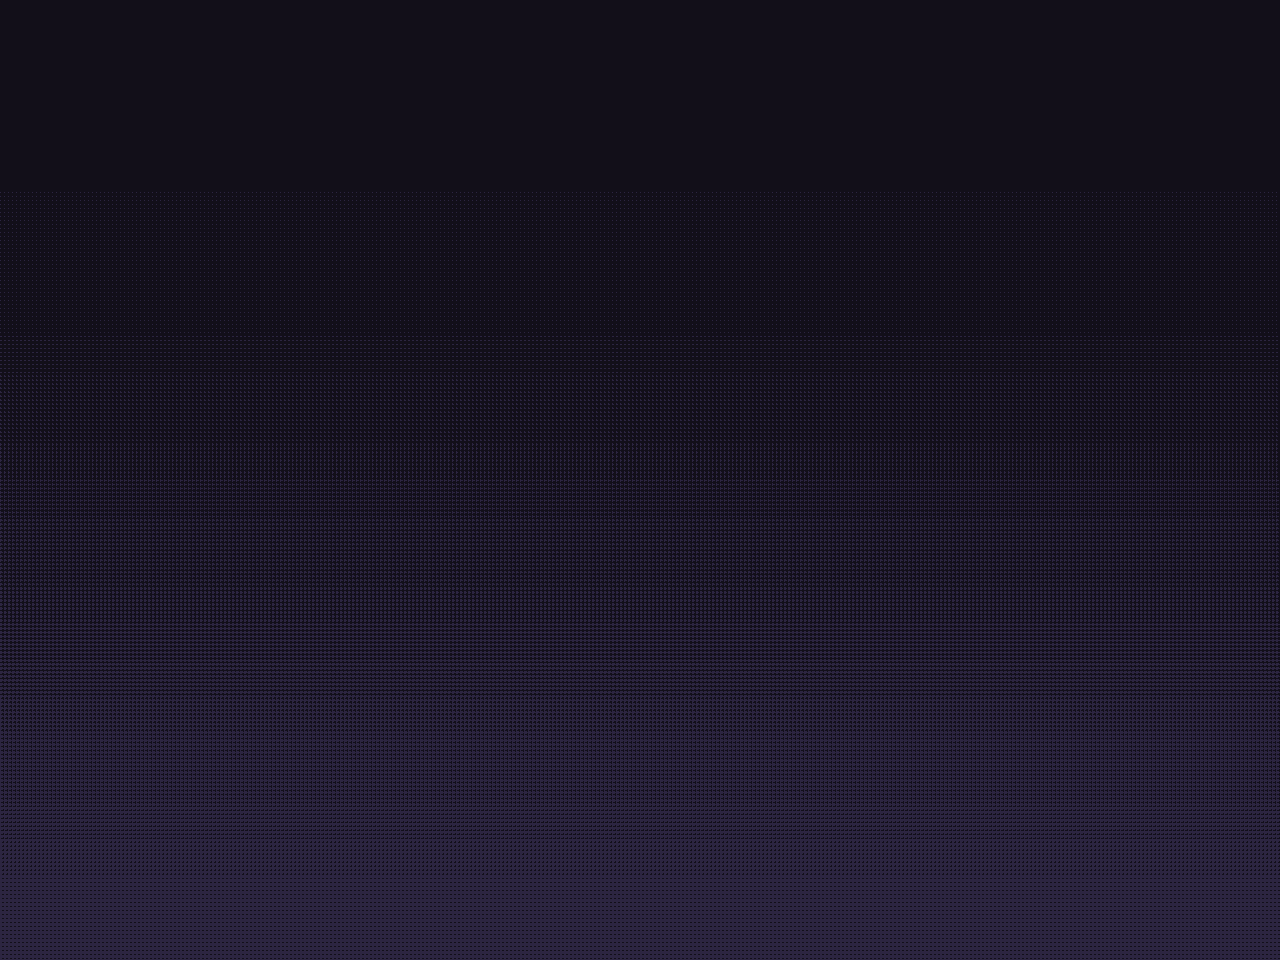
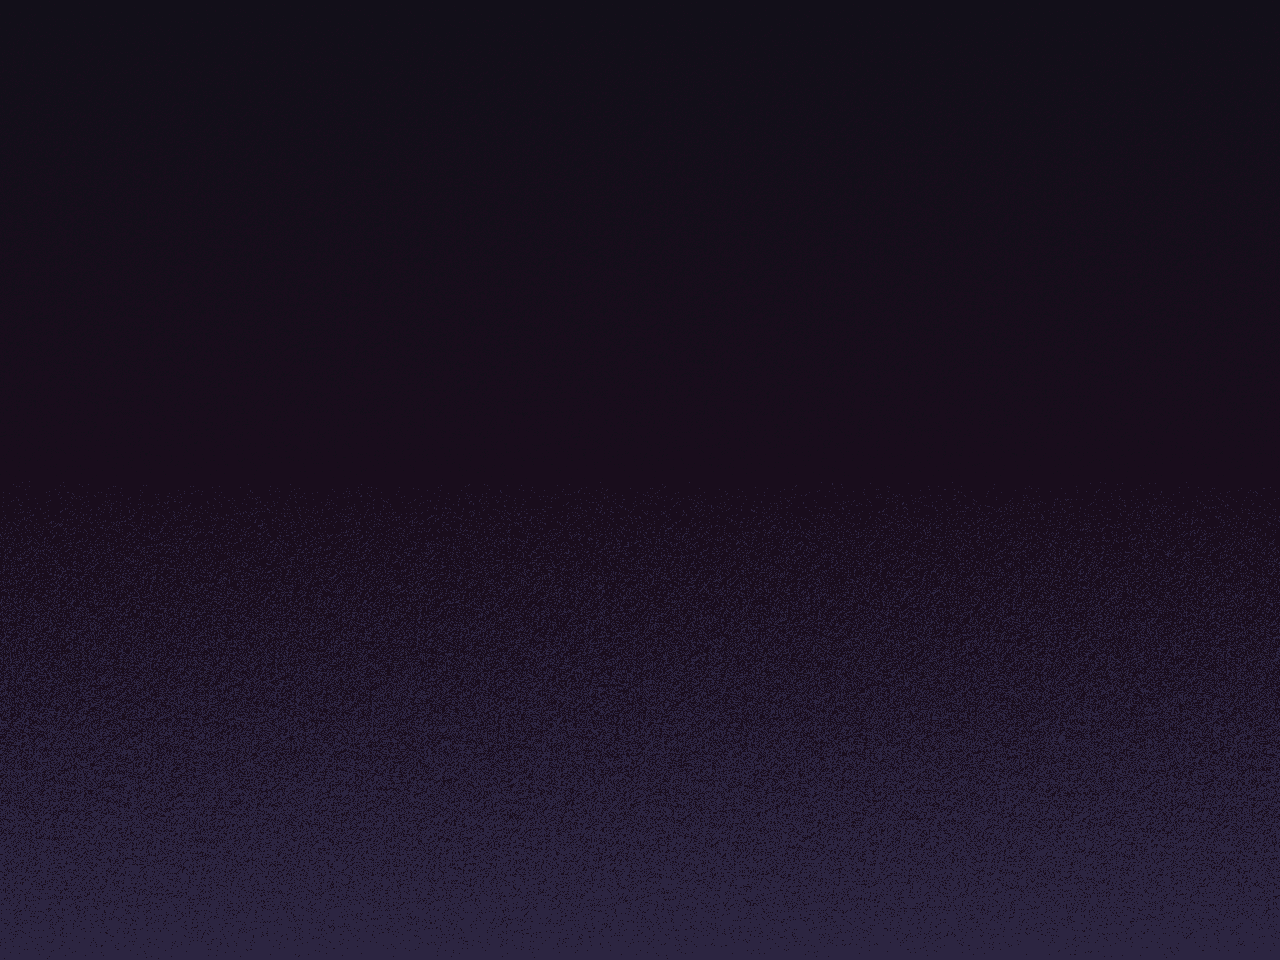
Pass 502: soften the sky backdrop dither so it stops reading as moire
The far-layer sky gradient blended between only two colours with a fixed 4px
ordered dither, so the large lower region became a 50/50 screen of two far-apart
colours on a rigid grid — the dot/crosshatch screen-door the independent grade
kept flagging as midground moire (pass 497/500/501).

tilegen.gradient() is now a palette ramp, not a two-colour screen:
- gradient_ramp(top, bottom) steps through several master-palette colours
  between the endpoints (each the nearest match to an even RGB interpolation);
- gradient_pixel() dithers only the thin seam between two adjacent ramp colours,
  from value noise (hash2), not a fixed ordered grid.

Each dither now mixes near-identical neighbours chosen by noise, so transitions
read as soft grain with no repeating period. Code-first: no art repainted, the
11 committed *_far.png regenerated deterministically. Verified by eye at 1x on
the raw layers and in-game (spires/roost, evercrown/drift_well); the pass-501
atmosphere shader still recedes these layers on top.

Design bible 12.6 documents the ramp. tools/art/test_tilegen.py (7 checks,
mutation-checked) guards the helpers, including the no-fixed-x-period invariant
that is the moire signature; it is a local art-tool guard (CI runs no Python
unit tests). Full local suite 8398 checks, 0 failed.

Changed region(s): [[0.0, 0.3438, 1.0, 1.0]]

diff --git a/tools/art/test_tilegen.py b/tools/art/test_tilegen.py
@@ -1,0 +1,89 @@
+#!/usr/bin/env python3
+"""Guards for the backdrop gradient (design bible 12.6).
+
+These cover the pure gradient helpers in tilegen that shape every far layer's
+sky, so the moire dot-grid the independent grade flagged (pass 497/500/501) stays
+fixed. The game test suite is Godot-only and CI does not run Python unit tests;
+run this guard with `python tools/art/test_tilegen.py` after touching the
+gradient. Exit code is non-zero on the first failure, so it mutation-checks by a
+plain re-run.
+"""
+import sys
+from pathlib import Path
+
+sys.path.insert(0, str(Path(__file__).resolve().parent))
+import tilegen as tg  # noqa: E402
+
+
+def _nearest(name):
+    """The palette name nearest in RGB to `name` (identity for a palette name)."""
+    target = tg.c(name)[:3]
+    return min(tg.PAL, key=lambda n: sum((tg.PAL[n][i] - target[i]) ** 2 for i in range(3)))
+
+
+def test_ramp_is_palette_locked():
+    ramp = tg.gradient_ramp("night-0", "crystal-1")
+    assert ramp, "ramp is non-empty"
+    for name in ramp:
+        assert name in tg.PAL, f"{name} is a master-palette colour"
+
+
+def test_ramp_has_several_steps_between_far_apart_ends():
+    # The whole point: far-apart endpoints get intermediate palette steps, not a
+    # two-colour field. (Mutating gradient_ramp back to [top, bottom] fails here.)
+    for top, bottom in [("night-0", "sky-2"), ("night-1", "crystal-2"), ("sky-5", "sky-7")]:
+        ramp = tg.gradient_ramp(top, bottom)
+        assert len(ramp) >= 3, f"{top}->{bottom} ramps through >=3 palette steps, got {ramp}"
+
+
+def test_ramp_ends_sit_on_the_endpoints():
+    ramp = tg.gradient_ramp("night-0", "sky-2")
+    assert ramp[0] == _nearest("night-0"), f"ramp starts at the top colour, got {ramp[0]}"
+    assert ramp[-1] == _nearest("sky-2"), f"ramp ends at the bottom colour, got {ramp[-1]}"
+
+
+def test_ramp_has_no_repeated_neighbours():
+    ramp = tg.gradient_ramp("night-0", "stone-1")
+    assert all(a != b for a, b in zip(ramp, ramp[1:])), f"adjacent ramp steps differ, got {ramp}"
+
+
+def test_a_solid_band_is_fully_solid():
+    # At the very top the gradient is one flat colour (no stray dither pixels).
+    ramp = ["night-0", "stone-0", "sky-2"]
+    row = {tg.gradient_pixel(ramp, x, 0, 300) for x in range(400)}
+    assert row == {ramp[0]}, f"the top row is solid, got {row}"
+
+
+def test_a_seam_dithers_between_adjacent_steps_only():
+    ramp = ["night-0", "stone-0", "sky-2"]
+    # p = y/(h-1)*(n-1); pick y so the seam between ramp[0] and ramp[1] is active.
+    h = 300
+    y = round((0.5 / (len(ramp) - 1)) * (h - 1))  # frac ~ 0.5 in the first seam
+    row = [tg.gradient_pixel(ramp, x, y, h) for x in range(600)]
+    assert set(row) == {ramp[0], ramp[1]}, f"a seam mixes only its two neighbours, got {set(row)}"
+
+
+def test_the_dither_is_noise_not_a_rigid_grid():
+    # The moire signature is a fixed small period in x (the old ordered dither
+    # repeated every 4 px). Value-noise dither has no such period. Mutating
+    # gradient_pixel back to an ordered grid pushes a shift's match rate to ~1.0.
+    ramp = ["night-0", "stone-0", "sky-2"]
+    h = 300
+    y = round((0.5 / (len(ramp) - 1)) * (h - 1))
+    row = [tg.gradient_pixel(ramp, x, y, h) for x in range(2000)]
+    for shift in (1, 2, 4, 8):
+        matches = sum(1 for x in range(len(row) - shift) if row[x] == row[x + shift])
+        rate = matches / (len(row) - shift)
+        assert rate < 0.9, f"shift {shift}: {rate:.2f} of pixels repeat — reads as a grid, not grain"
+
+
+def main():
+    tests = [v for k, v in sorted(globals().items()) if k.startswith("test_") and callable(v)]
+    for t in tests:
+        t()
+        print(f"ok  {t.__name__}")
+    print(f"\n{len(tests)} checks passed")
+
+
+if __name__ == "__main__":
+    main()

diff --git a/tools/art/tilegen.py b/tools/art/tilegen.py
@@ -621,13 +621,42 @@ def wrap_noise(x, y, seed, period):
     return a + (b - a) * fy
 
 
+def gradient_ramp(top, bottom, stops=8):
+    """A ramp of master-palette colours from `top` to `bottom`, each the nearest
+    palette match to an even RGB step between them. Several solid value steps mean
+    the gradient dithers only between adjacent, near-identical colours, so the mix
+    reads as a soft grain instead of a 50/50 screen of the two far-apart endpoints
+    — the moire dot-grid the independent grade flagged (pass 500/501, bible 12.6)."""
+    tr, br = c(top)[:3], c(bottom)[:3]
+    ramp = []
+    for s in range(stops):
+        t = s / (stops - 1)
+        target = tuple(tr[i] + (br[i] - tr[i]) * t for i in range(3))
+        name = min(PAL, key=lambda n: sum((PAL[n][i] - target[i]) ** 2 for i in range(3)))
+        if not ramp or ramp[-1] != name:
+            ramp.append(name)
+    return ramp
+
+
+def gradient_pixel(ramp, x, y, h, dither=True):
+    """The palette colour name for one pixel of a `ramp` gradient `h` tall. The
+    seam between two ramp steps is dithered from value noise (hash2), not a fixed
+    ordered grid, so a transition reads as grain and never as a rigid screen door."""
+    n = len(ramp)
+    if n == 1:
+        return ramp[0]
+    p = (y / (h - 1)) * (n - 1)
+    lo = min(int(p), n - 2)
+    frac = p - lo
+    thr = hash2(x, y, 9) if dither else 0.5
+    return ramp[lo + 1] if frac > thr else ramp[lo]
+
+
 def gradient(img, top, bottom, dither=True):
+    ramp = gradient_ramp(top, bottom) if dither else [top, bottom]
     for y in range(BG_H):
-        k = y / (BG_H - 1)
         for x in range(BG_W):
-            # Ordered dither between the two colors instead of blending.
-            threshold = ((x % 4) * 4 + (y % 4) * 7 % 16) / 16.0 if dither else 0.5
-            img.putpixel((x, y), c(bottom if k > threshold * 0.6 + 0.2 else top))
+            img.putpixel((x, y), c(gradient_pixel(ramp, x, y, BG_H, dither)))
 
 
 def put(img, x, y, col):

diff --git a/docs/loop/pass-502.md b/docs/loop/pass-502.md
@@ -1,0 +1,98 @@
+# Pass 502: soften the halftone dither in the sky backdrops
+
+## Category
+
+Art / World, from the independent-grade queue — not the rubric rotation. Art outranks the rotation
+when the queue holds no fresh Sean note (none this pass; all three notes are answered), and the
+headline art item (the PixelLab guardian bases) is **blocked**: three bases already wait for Sean's OK
+(Haar Wyrm, Thane Vorrund, Drowned Warden), the limit of three, and no note frees a slot. The hero
+sprite (the grade's top defect) would be a fourth base, also over the limit. So this pass takes the
+next unblocked, code-first grade defect — the one pass-501's "Next" named for pass 502, the recurring
+**halftone dither moire**, flagged at the pass-497, pass-500 and pass-501 grades:
+
+> A uniform dot/crosshatch dither grid over the midground reads as flat moire noise on several rooms
+> (boughs, evercrown, spires, sky_spring, sunken, vorrhallow).
+
+No generations and no base-approval gate; it touches every zone with a painted backdrop.
+
+## What was built
+
+The sky of every far layer (`<zone>_far.png`) is a palette-locked vertical gradient from
+`tilegen.gradient(top, bottom)`. The old gradient blended between **two** colours — `top` and
+`bottom` — with a fixed 4-pixel ordered dither squeezed into the transition band. Over the large
+lower region that meant a 50/50 screen of two far-apart colours, on a rigid grid: a loud dot/
+crosshatch screen-door with a hard banding seam where it kicked in. That is the moire the grade saw.
+
+The gradient is now a **ramp**, not a two-colour screen:
+
+- **`gradient_ramp(top, bottom)`** builds a ramp of several master-palette colours between the two
+  endpoints — each step the nearest palette match to an even RGB interpolation — so the sky steps
+  through intermediate colours instead of mixing only the two ends.
+- **`gradient_pixel(ramp, x, y, h)`** dithers only across the thin seam between two **adjacent** ramp
+  colours, and the dither threshold is **value noise (`hash2`)**, not a fixed ordered grid.
+
+Because each dither now mixes two near-identical neighbours chosen by noise — not a rigid 50/50
+screen of the two far-apart endpoints — a transition reads as a soft grain, and there is no repeating
+period for the eye to lock onto as a grid. Most of the sky is solid palette bands; only the hairline
+seams between them carry any grain at all.
+
+This is **code-first**: no art is repainted, only `tools/art/tilegen.py` and the 11 committed
+`*_far.png` it regenerates. The output is deterministic (`hash2` is pure), so the PNGs do not churn on
+a re-run. The pass-501 atmosphere shader still desaturates and fades these layers on top, so the two
+fixes compound: the backdrop recedes (501) and no longer carries a screen-door (502).
+
+## Why not keep a dither at all
+
+A pixel sky is palette-locked (bible 12.2/12.3): a gradient cannot blend to arbitrary RGB, so some
+dither between the few available shades is unavoidable. The defect was never "dither exists" — it was
+the **rigid grid** and the **two-colour contrast**. Ramping through intermediate palette colours drops
+the per-seam contrast to near-nothing, and a noise threshold removes the period; together they turn a
+screen-door into grain. Switching to a larger ordered (Bayer) matrix would only trade a small grid for
+a bigger one, so noise is the right call for killing moire.
+
+## Checks
+
+- **Verified by eye** at 1x, old vs new, on the raw far layers (spires, boughs, evercrown, and the
+  before/after pair) and **in-game** (spires/roost, evercrown/drift_well, with the atmosphere shader
+  and the gameplay layer in frame): the dot-screen and the hard banding seam are gone; the backdrop
+  recedes as a clean gradient and the lit tiles, rain and actors pop.
+- **`tools/art/test_tilegen.py`** (7 checks) guards the helpers: the ramp is palette-locked, steps
+  through ≥3 colours between far-apart ends, sits on its endpoints, has no repeated neighbours; a
+  solid band is fully solid; a seam mixes only its two neighbours; and the dither has **no fixed
+  x-period** (the moire signature). The game suite is Godot-only and CI runs no Python unit tests, so
+  this is a local art-tool guard — run it with `python tools/art/test_tilegen.py`. Mutation-checked:
+  collapsing the ramp to two colours fails the multi-step check, and restoring the ordered grid pushes
+  the shift-4 repeat rate to 1.00 and fails the no-grid check.
+- Full local Godot suite green (below); CI test + mix green; no test loads the backdrop PNGs, so the
+  regenerated art does not touch the suite.
+
+## Rubric (design bible 15.3)
+
+| Category | Weight | Score | Notes |
+| --- | --- | --- | --- |
+| Movement feel | 20 | 99 | Unchanged. |
+| Combat and enemies | 15 | 99 | Unchanged; actors still read against a quieter backdrop. |
+| World and level design | 15 | 99 | Unchanged. |
+| Art cohesion | 15 | 91 | The sky screen-door is gone across every zone, so the backdrops read as painted depth, not a moire mesh. With pass 500's rim shading and pass 501's atmospheric perspective, the environment art is close to cohesive; the hero and guardian HD bases remain the open gap (gated art loop). |
+| Bosses | 10 | 99 | Unchanged. |
+| Systems | 10 | 99 | Unchanged. |
+| Audio | 5 | 99 | Unchanged. |
+| Stability and performance | 5 | 99 | Pure asset change; no runtime cost. |
+| Story and world | 5 | 99 | Unchanged. |
+
+Weighted: 97.8.
+
+## Next
+
+Pass 503: the art loop stays gated on Sean — three guardian bases (Haar Wyrm, Thane Vorrund, Drowned
+Warden) wait for his OK, the limit of three, so no new base can be made until he approves one. Until
+then, the next unblocked grade defects, code-first: **tile variants / grid banding** (brick and wall
+fields still tile obviously — add atlas variants so the repeat unit stops reading) and the **flat grass
+fringe** (a single bright-green band on floors and ledges; give it a shaded ramp, a darker under-edge
+and per-tile variation). Both are self-contained wins in `tilegen`. The **empty midgrounds** and **flat
+directionless lighting** defects are larger room-and-decor work for a later pass. The hero sprite (the
+grade's top defect) needs PixelLab and would be a fourth base — held until a slot frees.
+
+For Sean (carried from pass 498, still open): the rain sheet won, so the **Haar marshes** could take a
+thin, slow drizzle to suit the fog, and the High Boughs an even fainter mist-rain — say the word and a
+pass wires it in.

diff --git a/docs/design-bible.md b/docs/design-bible.md
@@ -1565,6 +1565,10 @@ the style guide, section 8.
 
 **Atmospheric perspective (pass 501):** the two painted parallax layers (`<zone>_far.png`, `<zone>_mid.png`) are pushed back by a canvas shader (`shaders/atmosphere.gdshader`, applied in `Backdrop`), not by repainting the art. Each layer's colour is pulled toward grey (`desat`) and then toward the dark zone haze (`fade`, toward `night-1`), lowering its saturation and contrast so the lit gameplay tiles — bright, and rim-shaded by `EdgeShade` — stand clear of the busy backdrop instead of sharing its value and saturation. The further-back layer recedes harder: `far` (desat 0.55, fade 0.5) sits deeper than `mid` (desat 0.3, fade 0.24). The effect is GPU-only with no per-frame CPU cost; the maths live in `Backdrop.haze_color()`, which mirrors the shader and the tests drive. This fixes the "depth collapse / tile repetition" grade defect (trunks, mid platforms and the play layer reading at one depth).
 
+### 12.6 Backdrop gradients
+
+The sky of every painted far layer (`<zone>_far.png`) is a palette-locked vertical gradient from `tilegen.gradient(top, bottom)`. **Ramp, not a two-colour screen (pass 502):** the gradient is a ramp of several master-palette colours between `top` and `bottom` (`gradient_ramp`, each step the nearest palette match to an even RGB interpolation), and a pixel is dithered only across the thin seam between two *adjacent* ramp colours (`gradient_pixel`), using value noise (`hash2`), not a fixed ordered grid. Because the dither mixes near-identical neighbours from noise rather than a rigid 50/50 screen of the two far-apart endpoints, a transition reads as a soft grain — never the uniform dot/crosshatch dither grid that the independent grade flagged as flat moire across the midground (pass 497/500/501). This is code-first: no art is repainted, and the output stays deterministic (`hash2` is pure), so the committed PNGs do not churn.
+
 ---
 
 ## 13. Asset Production Plan
